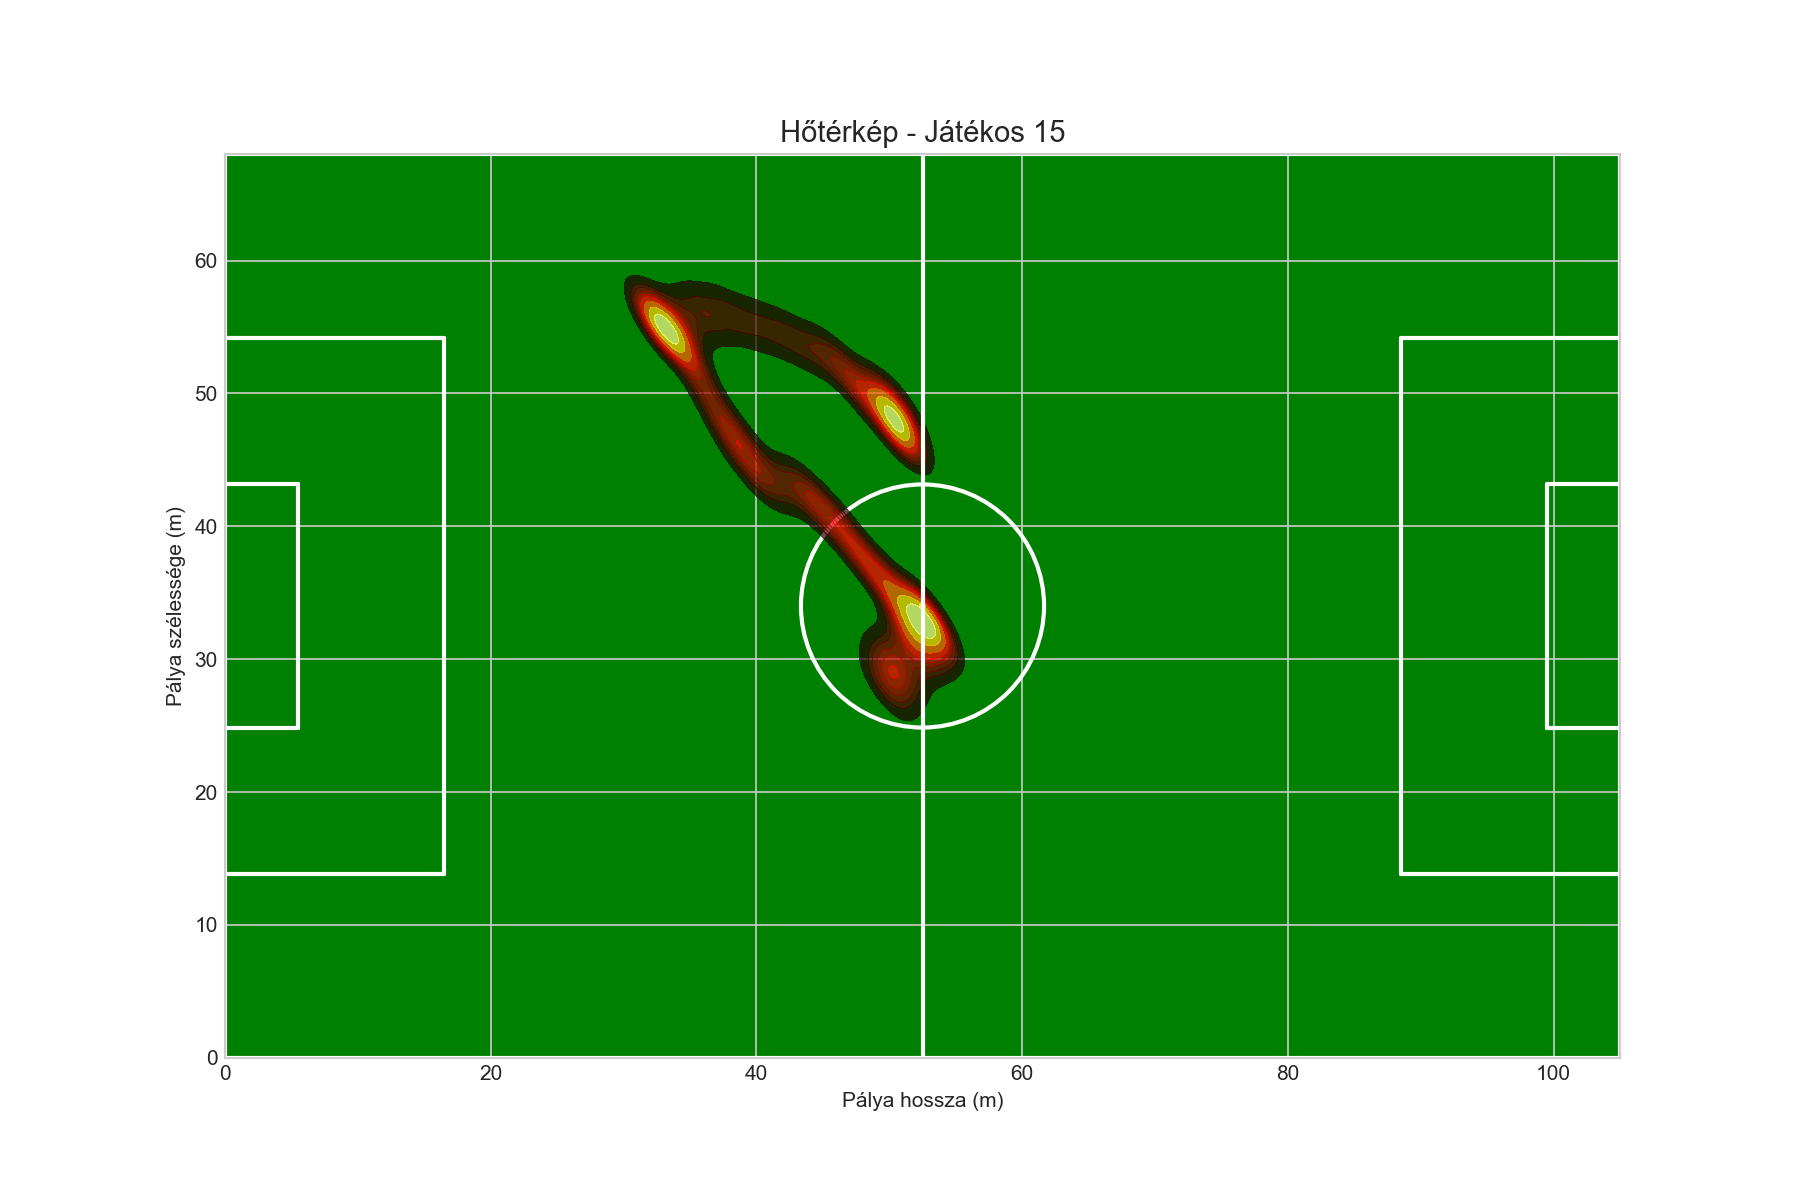
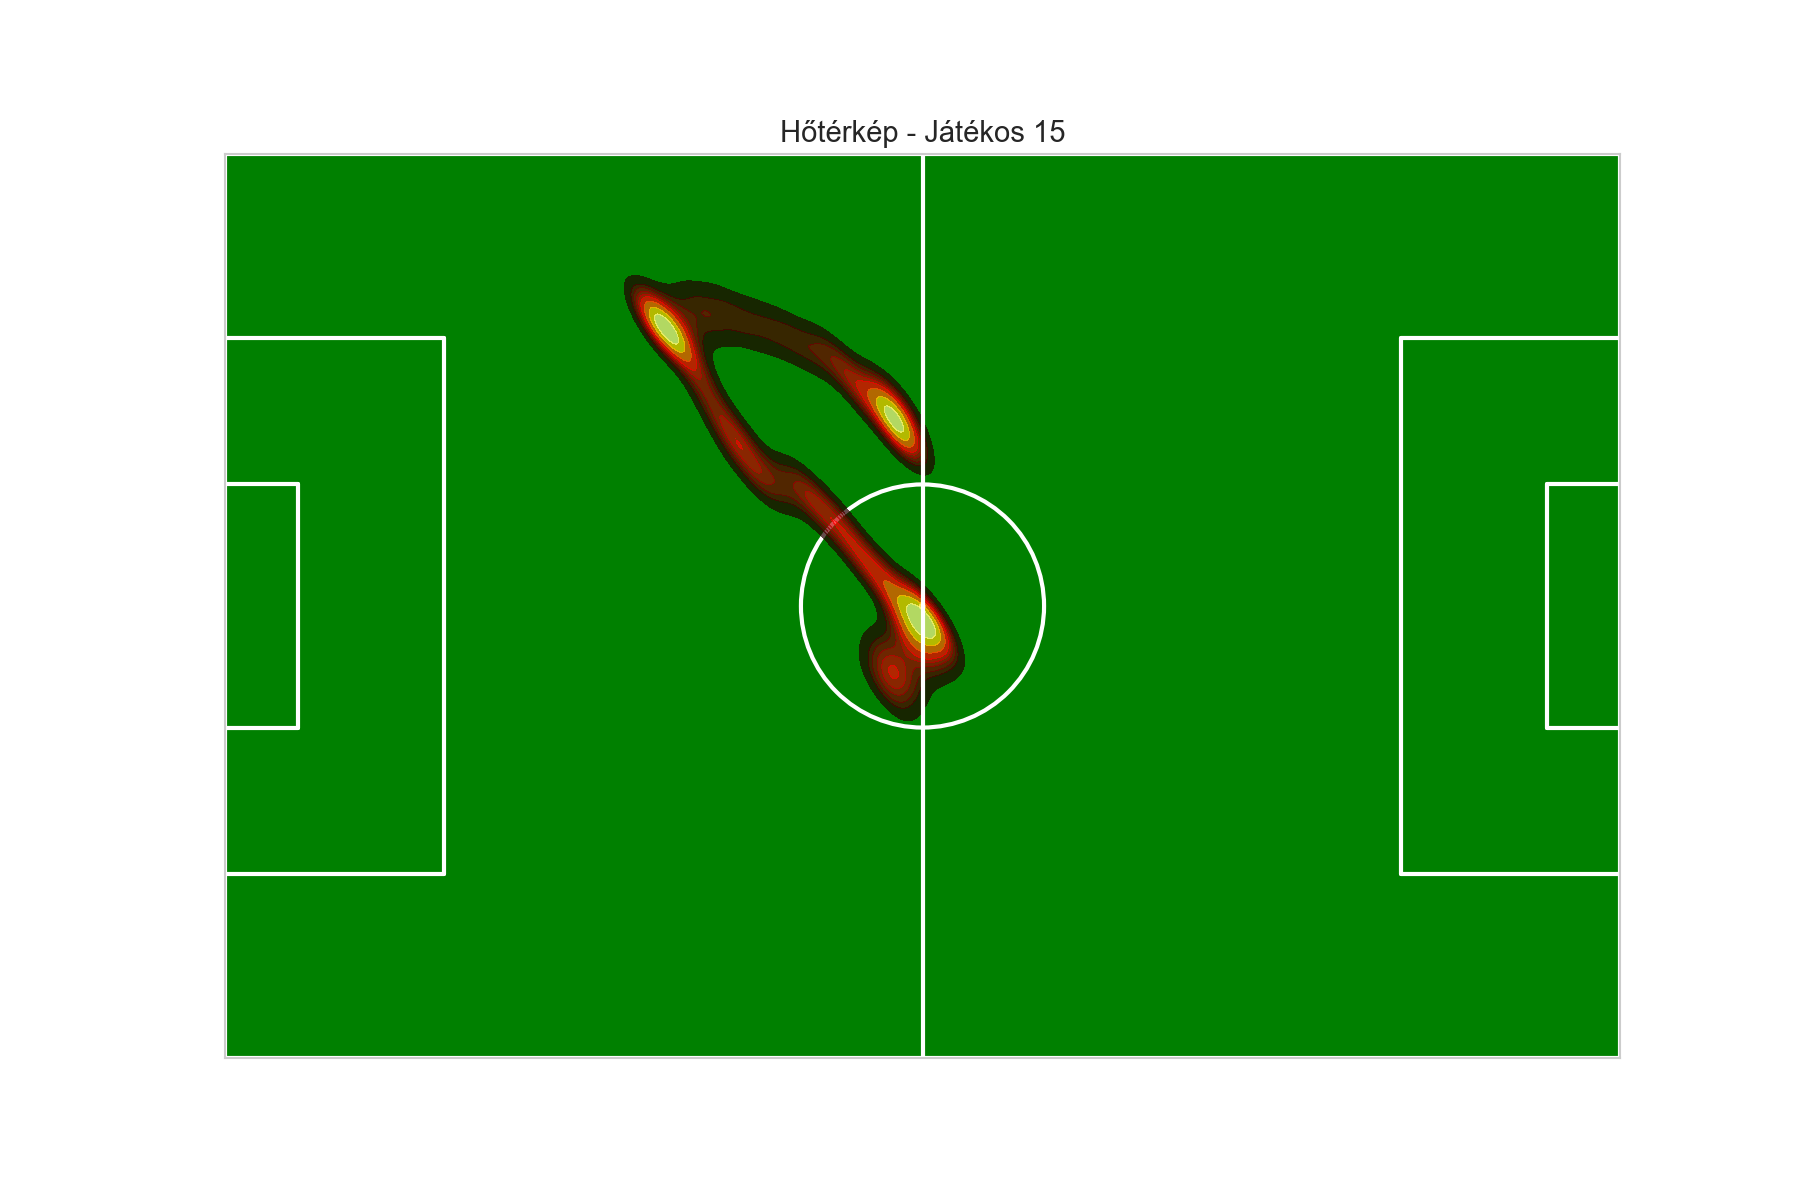
ball heatmap

Changed region(s): [[0.0933, 0.4317, 0.1244, 0.5858], [0.4667, 0.8942, 0.56, 0.925]]

diff --git a/heatmaps/ball_heatmap.py b/heatmaps/ball_heatmap.py
@@ -1,0 +1,81 @@
+import os
+import numpy as np
+import matplotlib.pyplot as plt
+import seaborn as sns
+
+# Focipálya kirajzolása
+def draw_football_pitch(ax):
+    pitch_length = 105
+    pitch_width = 68
+
+    ax.set_facecolor("green")
+    ax.plot([0, 0, pitch_length, pitch_length, 0], [0, pitch_width, pitch_width, 0, 0], color="white", linewidth=2)
+    ax.axvline(pitch_length / 2, color="white", linewidth=2)
+
+    # Kezdőkör
+    centre_circle = plt.Circle((pitch_length / 2, pitch_width / 2), 9.15, color="white", fill=False, linewidth=2)
+    ax.add_patch(centre_circle)
+
+    # Kapuk és tizenhatos
+    for x in [0, pitch_length]:
+        penalty_box_length = 16.5
+        penalty_box_width = 40.32
+        goal_box_length = 5.5
+        goal_box_width = 18.32
+
+        # Büntetőterület
+        if x == 0:
+            ax.plot([x + penalty_box_length] * 2, [(pitch_width - penalty_box_width)/2, (pitch_width + penalty_box_width)/2], color="white", linewidth=2)
+            ax.plot([x, x + penalty_box_length], [(pitch_width - penalty_box_width)/2] * 2, color="white", linewidth=2)
+            ax.plot([x, x + penalty_box_length], [(pitch_width + penalty_box_width)/2] * 2, color="white", linewidth=2)
+        else:
+            ax.plot([x - penalty_box_length] * 2, [(pitch_width - penalty_box_width)/2, (pitch_width + penalty_box_width)/2], color="white", linewidth=2)
+            ax.plot([x, x - penalty_box_length], [(pitch_width - penalty_box_width)/2] * 2, color="white", linewidth=2)
+            ax.plot([x, x - penalty_box_length], [(pitch_width + penalty_box_width)/2] * 2, color="white", linewidth=2)
+
+        # Kapuk
+        if x == 0:
+            ax.plot([x + goal_box_length]*2, [(pitch_width - goal_box_width)/2, (pitch_width + goal_box_width)/2], color="white", linewidth=2)
+            ax.plot([x, x + goal_box_length], [(pitch_width - goal_box_width)/2]*2, color="white", linewidth=2)
+            ax.plot([x, x + goal_box_length], [(pitch_width + goal_box_width)/2]*2, color="white", linewidth=2)
+        else:
+            ax.plot([x - goal_box_length]*2, [(pitch_width - goal_box_width)/2, (pitch_width + goal_box_width)/2], color="white", linewidth=2)
+            ax.plot([x, x - goal_box_length], [(pitch_width - goal_box_width)/2]*2, color="white", linewidth=2)
+            ax.plot([x, x - goal_box_length], [(pitch_width + goal_box_width)/2]*2, color="white", linewidth=2)
+
+    centre_spot = plt.Circle((pitch_length / 2, pitch_width / 2), 0.2, color="white")
+    ax.add_patch(centre_spot)
+
+    ax.set_xlim(0, pitch_length)
+    ax.set_ylim(0, pitch_width)
+    ax.set_aspect('equal')
+    ax.set_xticks([])
+    ax.set_yticks([])
+
+
+def generate_ball_heatmap(ball_coordinates: list[tuple[float, float]], output_path="heatmaps/heatmap_images/ball_heatmap.png"):
+    os.makedirs(os.path.dirname(output_path), exist_ok=True)
+
+    # Koordináták kiszűrése, csak ahol nem None
+    filtered_coords = [coord for coord in ball_coordinates if coord is not None]
+
+    if not filtered_coords:
+        print("Nincs érvényes labdakoordináta a hőtérkép generálásához!")
+        return
+
+    coords = np.array(filtered_coords)
+    x = coords[:, 0]
+    y = coords[:, 1]
+
+    # Ábra létrehozása
+    fig, ax = plt.subplots(figsize=(12, 8))
+    draw_football_pitch(ax)
+    sns.kdeplot(x=x, y=y, fill=True, cmap="hot", bw_adjust=0.5, thresh=0.05, alpha=0.7)
+    ax.set_title("Labda hőtérképe", fontsize=14)
+    ax.set_xlabel("Pálya hossza (m)")
+    ax.set_ylabel("Pálya szélessége (m)")
+
+    # Mentés fájlba
+    plt.savefig(output_path, dpi=150)
+    plt.close()
+    print(f"Labda hőtérkép mentve: {output_path}")

diff --git a/main.py b/main.py
@@ -2,7 +2,7 @@ from utils import load_video, generate_output_video, get_majority_team_sides, cl
 from tracker import Tracker
 from pitch_config import process_keypoint_annotations
 from ultralytics import YOLO
-from heatmaps import generate_player_heatmaps
+from heatmaps import generate_player_heatmaps, generate_ball_heatmap
 from ball_possession import BallPossession
 from passing_measurement import PassCounter
 from player_positions_per_frame import plot_players_per_half_graph
@@ -183,6 +183,7 @@ print("Játékos aktivitási statisztikák generálása befejeződött!")
 
 # Hőtérképek generálása
 generate_player_heatmaps(keypoint_data.get("player_coordinates", []))
+generate_ball_heatmap(keypoint_data.get("ball_coordinates", []))
 print("Hőtérképek elmentve a heatmaps mappába!")
 
 # Output videó generálása

diff --git a/heatmaps/heatmap.py b/heatmaps/heatmap.py
@@ -56,6 +56,8 @@ def draw_football_pitch(ax):
     ax.set_xlim(0, pitch_length)
     ax.set_ylim(0, pitch_width)
     ax.set_aspect('equal')
+    ax.set_xticks([])
+    ax.set_yticks([])
 
 
 # Hőtérkép generálása játékosokra

diff --git a/heatmaps/__init__.py b/heatmaps/__init__.py
@@ -1,1 +1,2 @@
 from .heatmap import generate_player_heatmaps
+from .ball_heatmap import generate_ball_heatmap
